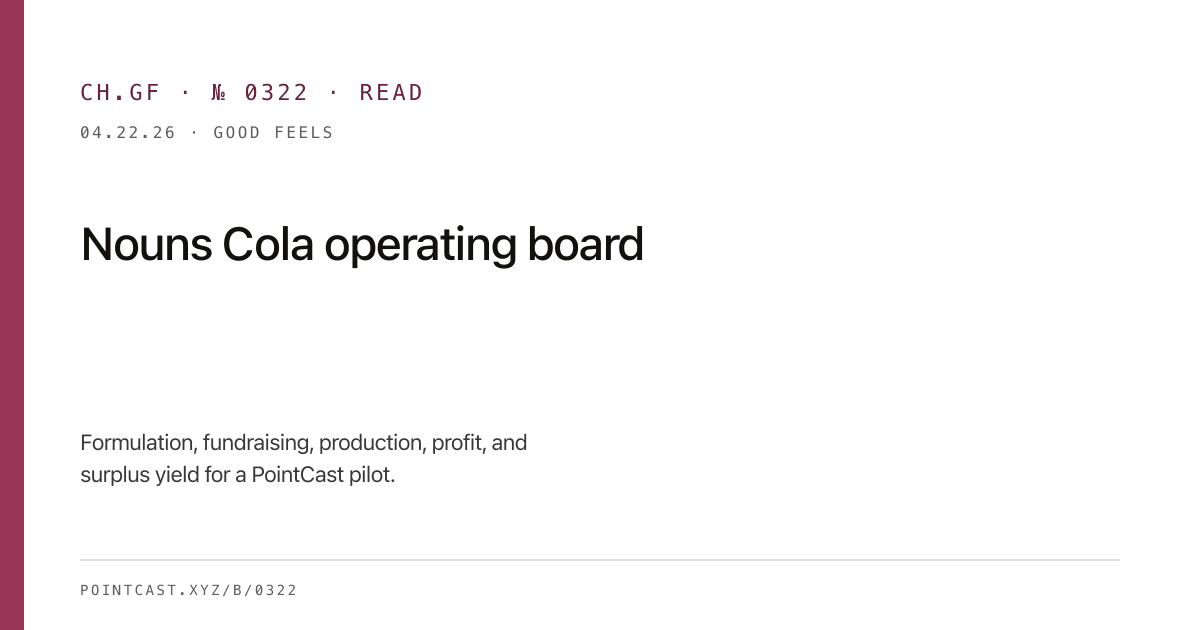
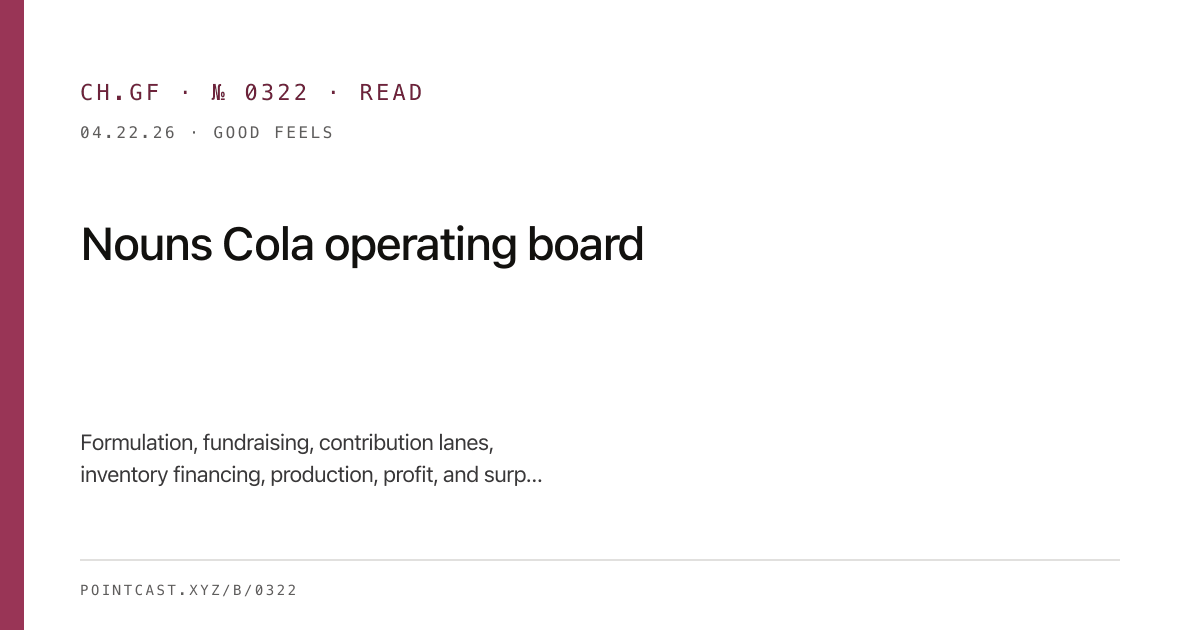
feat(nouns-cola): add contribution financing plan

Changed region(s): [[0.0617, 0.6937, 0.4317, 0.7841]]

diff --git a/src/pages/nouns-cola.json.ts b/src/pages/nouns-cola.json.ts
@@ -10,7 +10,7 @@ const payload = {
   status: 'alpha operating board',
   human: 'https://pointcast.xyz/nouns-cola',
   image: 'https://pointcast.xyz/images/nouns-cola/nouns-cola-pack.png',
-  intent: 'Create a Nouns Cola pilot on PointCast covering formulation, fundraising, production, profit, and yield.',
+  intent: 'Create a Nouns Cola pilot on PointCast covering formulation, contributions, inventory financing, production, profit, and yield.',
   formulation: {
     product: '12 oz carbonated cola concept',
     targets: {
@@ -35,6 +35,78 @@ const payload = {
       { item: 'Compliance, reserve, surprises', amountUsd: 10000 },
     ],
     routes: ['preorder crates', 'sponsor pallets', 'DAO-style proposal', 'direct community support'],
+  },
+  contributionPlan: {
+    principle: 'Separate product/community contributions from any inventory-financing facility.',
+    lanes: [
+      {
+        lane: 'Taste panel',
+        ask: '$0 / time',
+        unlocks: 'Formula feedback, blind tasting notes, reorder signal',
+        status: 'open',
+        financialClaim: false,
+      },
+      {
+        lane: 'Case preorder',
+        ask: '$72',
+        unlocks: 'One 24-can case reserved from the pilot run',
+        status: 'draft',
+        financialClaim: false,
+      },
+      {
+        lane: 'Crate sponsor',
+        ask: '$576',
+        unlocks: 'Eight cases for team, studio, shop, event, or local door',
+        status: 'draft',
+        financialClaim: false,
+      },
+      {
+        lane: 'Retail door',
+        ask: '10-case PO',
+        unlocks: 'Wholesale demand proof before production cash is locked',
+        status: 'target',
+        financialClaim: false,
+      },
+      {
+        lane: 'Pallet sponsor',
+        ask: '$3,456',
+        unlocks: 'Forty-eight cases plus sponsor credit on PointCast',
+        status: 'target',
+        financialClaim: false,
+      },
+      {
+        lane: 'Inventory facility',
+        ask: '$5k+ draft',
+        unlocks: 'Short-term inventory float repaid from receipts if approved',
+        status: 'legal review',
+        financialClaim: 'not live; requires counsel approval',
+      },
+    ],
+  },
+  inventoryFinancingPlan: {
+    status: 'draft term sheet for legal review; not live',
+    targetFacilityUsd: 120000,
+    uses: [
+      { use: 'Co-packer deposit', amountUsd: 38000, source: 'facility + crate sponsors' },
+      { use: 'Landed inventory', amountUsd: 44000, source: 'facility + case preorders' },
+      { use: 'Fulfillment float', amountUsd: 14000, source: 'case preorders' },
+      { use: 'Retail terms buffer', amountUsd: 14000, source: 'facility reserve' },
+      { use: 'First-loss reserve', amountUsd: 10000, source: 'treasury / sponsor holdback' },
+    ],
+    gatesBeforeRelease: [
+      'formula locked',
+      'co-packer quote received',
+      'label and nutrition review complete',
+      'pilot purchase order packet complete',
+      'counsel signs off on any financing terms',
+    ],
+    receiptWaterfall: [
+      'Product preorders and sponsor crates reserve product, not financial upside.',
+      'Inventory facility funds are released only after gates are complete.',
+      'Sales receipts first replenish fulfillment costs and pay supplier balances.',
+      'If counsel approves an inventory facility, receipts then repay approved facility principal before surplus routing.',
+      'Remaining surplus follows the yield policy: next run, PointCast treasury, growth, and team pool.',
+    ],
   },
   production: {
     pilotCases: 2400,
